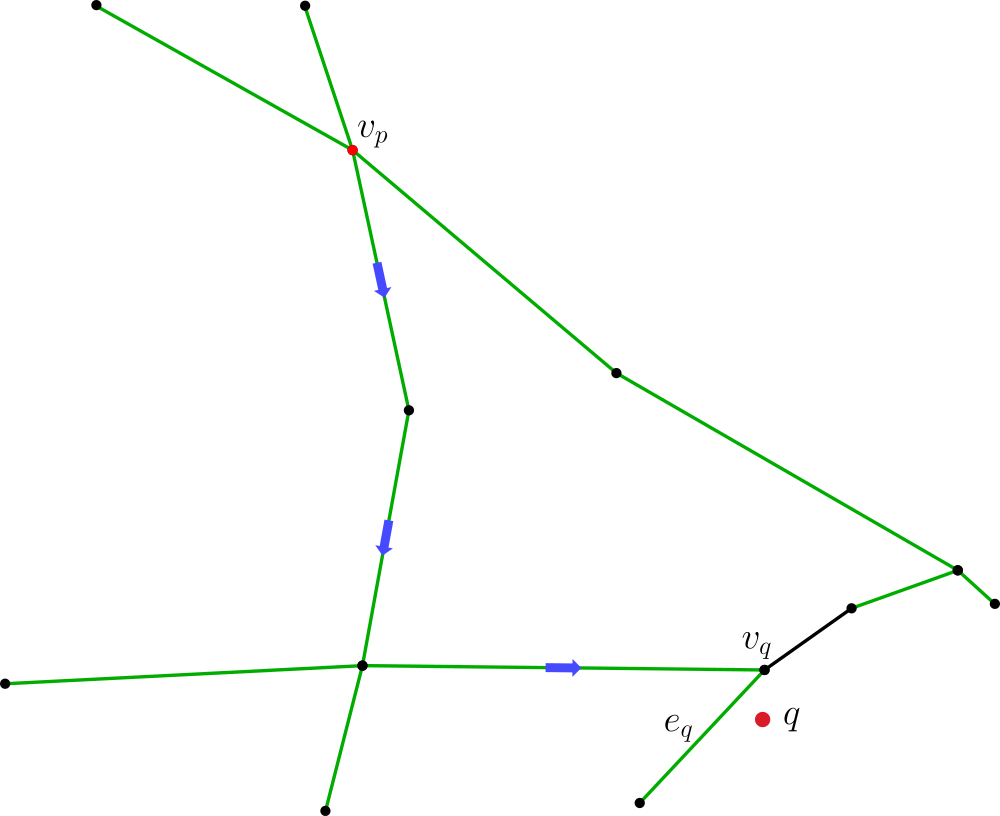
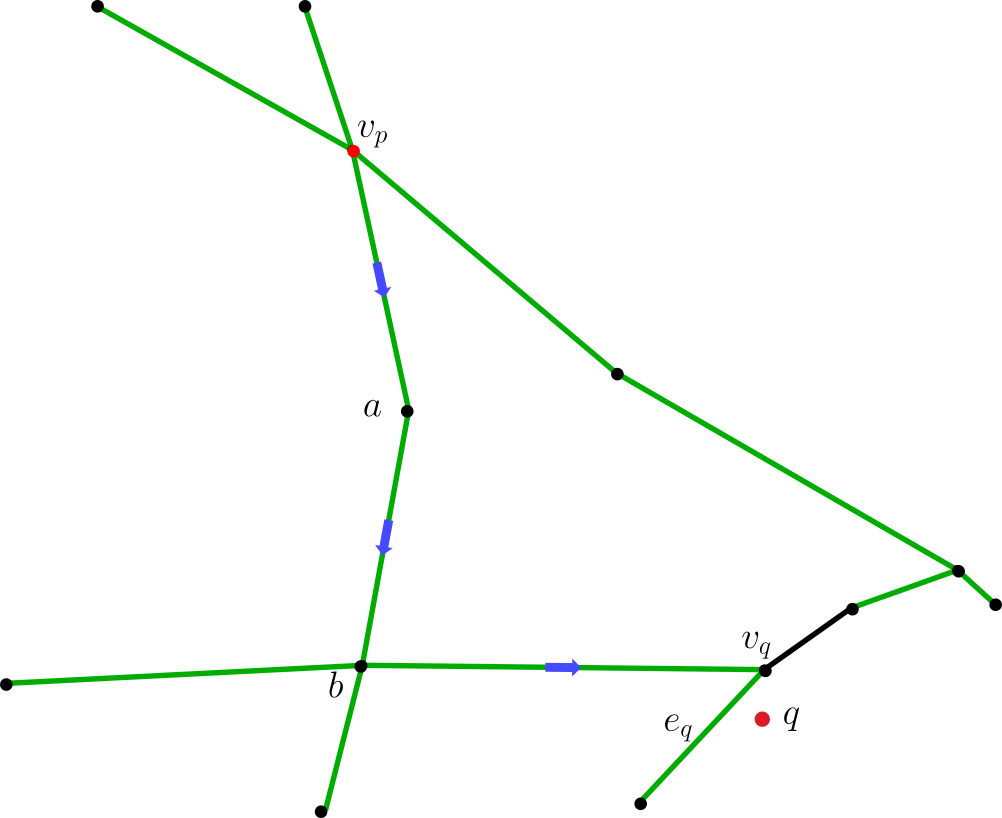
the paper: algorithm picture and explanation

diff --git a/paper/paper.md b/paper/paper.md
@@ -77,9 +77,16 @@ OpenStreetMap data consists of *nodes*, *ways*, and *tags*. Nodes are points wit
 
 After selecting the input vector layer (`points_vector`) and specifying the two numerical parameters (`max_dist` and `min_loop_size`), the algorithm retrieves the OSM map section that includes the `points_vector`. It then constructs the road graph $G$ using the NetworkX library  [@networkx], labeling the edges of $G$ with tags extracted from OSM ways."
 
-At each iteration, the algorithm attempts to match each point in `points_vector` with a node in $G$. Let $p$ be the last matched point and $v_p$ the corresponding node in $G$, and let $q$ be the next point to be matched. The algorithm computes the shortest path tree $T_p$ in $G$, rooted at $v_p$. It then searches for the edge $e_q$ in $T_p$ that is closest to $q$ and matches $q$ to the node $v_q$ of $e_q$ that is nearest to $q$. More precisely, to enhance efficiency, the construction of the shortest path tree is terminated as soon as the distances exceed a cutoff value set to $1.5 \cdot \text{distance}(v_p, q)$.
+At each iteration, the algorithm attempts to match each point in `points_vector` with a node in $G$. Let $p$ be the last matched point and $v_p$ the corresponding node in $G$, and let $q$ be the next point to be matched. The algorithm computes the shortest path tree $T_p$ in $G$, rooted at $v_p$. It then searches for the edge $e_q$ in $T_p$ that is closest to $q$ and matches $q$ to the node $v_q$ of $e_q$ that is nearest to $q$. Finally, the nodes that belong to the shortest path from $v_p$ and $v_q$ are added to the solution and the algorithm continue from node $v_q$.
 
 ![How the algorithm works.\label{fig:shortestpath}](pictures/shortest_path.png){ width=60% }
+
+The picture illustrates an example of how the algorithm works. The green edges represent the shortest path tree from node $v_p$, while the black edge is another graph edge. The blue arrows highlight the shortest path from $v_p$ to $v_q$. Nodes $a$, $b$, and $v_q$ are added to the solution, and the algorithm proceeds by computing a shortest path tree from $v_q$.
+
+## Optimizations
+
+Observe that, to enhance efficiency, the construction of the shortest path tree is terminated as soon as the distances exceed a cutoff value set to $1.5 \cdot \text{distance}(v_p, q)$.
+
 
 # Acknowledgements
 
